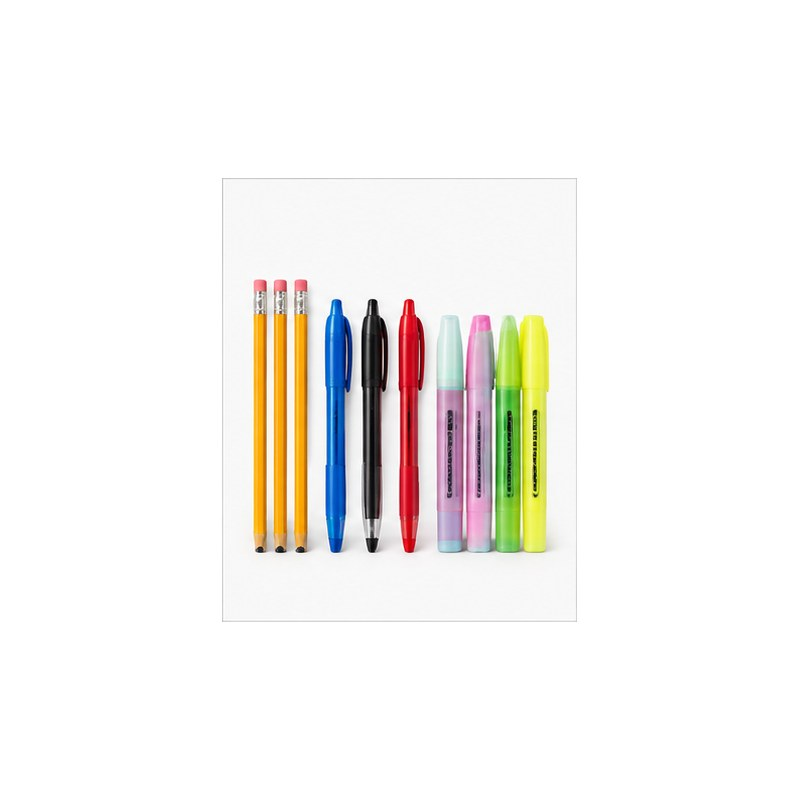
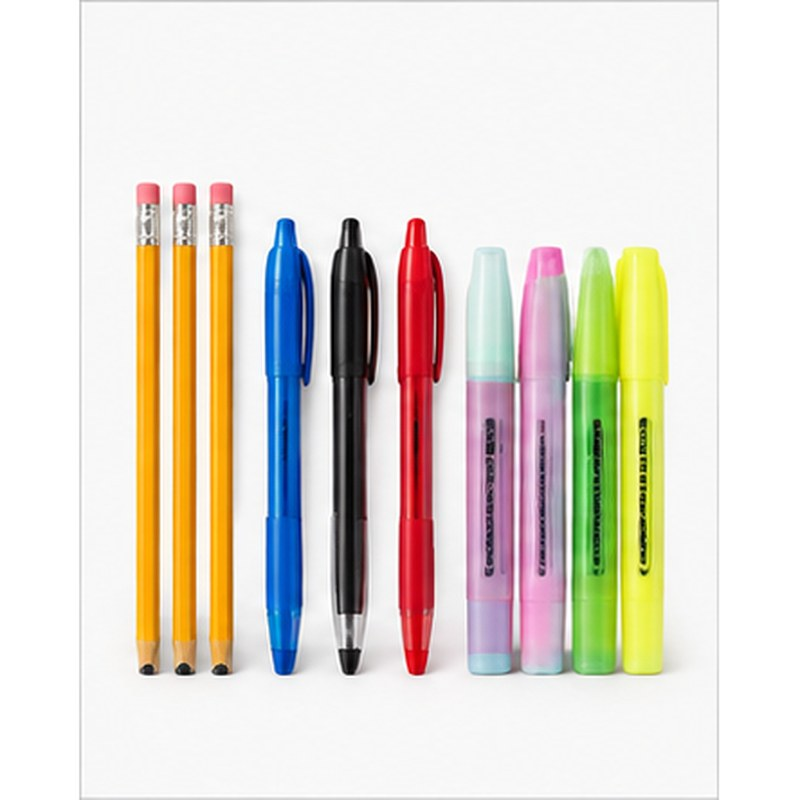
Add files via upload

diff --git a/styles.css b/styles.css
@@ -1,1 +1,1 @@
-:root{--navy:#0b2442;--ink:#132d4f;--pink:#f72b86;--blue:#54a7e8;--teal:#18b6a4;--yellow:#ffbd21;--purple:#7651df;--paper:#fff;--soft:#f5f8fc;--line:#dfe7f0;--muted:#607089;--shadow:0 18px 50px rgba(18,45,79,.11);--radius:22px}*{box-sizing:border-box}html{scroll-behavior:smooth}body{margin:0;font-family:Inter,ui-sans-serif,system-ui,-apple-system,Segoe UI,Roboto,Arial,sans-serif;color:var(--ink);background:#fff;line-height:1.6}a{color:inherit}.shell{width:min(1200px,calc(100% - 36px));margin:auto}.utility{background:var(--navy);color:#fff;font-size:.82rem}.utility-in{display:flex;justify-content:space-between;gap:20px;padding:9px 0}.header{position:sticky;top:0;z-index:50;background:#fff;box-shadow:0 1px 0 var(--line)}.header-main{display:grid;grid-template-columns:190px 1fr auto;align-items:center;gap:28px;padding:12px 0}.brand img{display:block;width:178px;height:78px;object-fit:contain;mix-blend-mode:multiply}.search{display:flex;border:1px solid #cfd9e5;border-radius:999px;overflow:hidden;background:#fff}.search input{border:0;outline:0;padding:13px 17px;flex:1;font:inherit}.search button{border:0;background:var(--pink);color:#fff;width:52px;font-size:1.2rem}.actions{display:flex;gap:18px;align-items:center}.actions a,.actions button{background:none;border:0;text-decoration:none;color:var(--ink);font-weight:700;cursor:pointer}.actions b{background:var(--pink);color:#fff;border-radius:999px;padding:1px 6px;font-size:.7rem}.nav-row{border-top:1px solid #edf1f5}.nav-row nav{display:flex;align-items:center;gap:24px;padding:11px 0;overflow:auto}.nav-row nav a{white-space:nowrap;text-decoration:none;font-size:.9rem;font-weight:700}.menu{display:none;border:1px solid var(--line);background:#fff;padding:9px 12px;border-radius:10px}.hero{background:linear-gradient(120deg,#eef4ff,#fff0f8);padding:34px 0 48px}.hero-grid{display:grid;grid-template-columns:1fr 1.05fr;gap:28px;align-items:center}.hero-copy{padding:28px 10px}.eyebrow{font-size:.76rem;letter-spacing:.16em;font-weight:850;color:var(--pink);margin:0 0 10px}.hero h1,.page-hero h1{font-size:clamp(3rem,6vw,5.6rem);line-height:.98;letter-spacing:-.055em;margin:0 0 22px;color:var(--navy)}.hero-copy>p:not(.eyebrow){font-size:1.15rem;color:#4d617b;max-width:600px}.hero-photo{border-radius:28px;overflow:hidden;box-shadow:var(--shadow);background:#eef}.hero-photo img{width:100%;height:480px;object-fit:cover;display:block}.hero-actions{display:flex;gap:12px;flex-wrap:wrap;margin:25px 0}.btn{display:inline-flex;align-items:center;justify-content:center;border:0;border-radius:12px;padding:12px 18px;text-decoration:none;font-weight:850;cursor:pointer;font:inherit}.btn.primary{background:var(--pink);color:#fff}.btn.outline{background:#fff;border:1px solid #b9c7d8;color:var(--navy)}.btn.dark{background:var(--navy);color:#fff}.btn.light-btn{background:#fff;color:var(--navy)}.btn.full{width:100%}.hero-points{display:flex;gap:15px;flex-wrap:wrap;color:#48617e;font-size:.85rem;font-weight:700}.categories{padding:70px 0}.section{padding:80px 0}.section-head{display:flex;justify-content:space-between;gap:25px;align-items:end;margin-bottom:28px}.section-head h2{font-size:clamp(2rem,4vw,3.4rem);letter-spacing:-.04em;line-height:1.05;margin:0}.section-head a{text-decoration:none;font-weight:800}.category-grid{display:grid;grid-template-columns:repeat(5,1fr);gap:14px}.cat{border:1px solid var(--line);border-radius:18px;padding:14px;text-decoration:none;background:#fff;transition:.2s}.cat:hover{transform:translateY(-4px);box-shadow:var(--shadow)}.cat img{width:100%;aspect-ratio:1;object-fit:contain;background:#fff;border-radius:14px;margin-bottom:9px;display:block;padding:6px}.cat b,.cat span{display:block}.cat span{color:var(--pink);font-size:.82rem;margin-top:2px}.soft{background:var(--soft)}.product-grid{display:grid;grid-template-columns:repeat(4,1fr);gap:16px}.product-card{background:#fff;border:1px solid var(--line);border-radius:18px;overflow:hidden;position:relative;min-width:0}.product-image{position:relative;background:#fff;aspect-ratio:1}.product-image img{width:100%;height:100%;object-fit:contain;display:block}.tag{position:absolute;left:10px;top:10px;background:#fff;border:1px solid var(--line);border-radius:999px;padding:5px 8px;font-size:.7rem;font-weight:850}.heart{position:absolute;right:10px;top:10px;border:1px solid var(--line);background:#fff;width:34px;height:34px;border-radius:50%;cursor:pointer}.product-body{padding:14px}.product-body small{color:var(--muted);font-weight:700}.product-body h3{font-size:1rem;line-height:1.25;margin:5px 0 9px}.price{display:flex;gap:8px;align-items:center;margin-bottom:11px}.price strong{font-size:1.12rem}.price del{color:#8997a9;font-size:.86rem}.card-actions{display:flex;gap:8px}.card-actions .btn{flex:1;padding:9px 10px;font-size:.86rem}.editorial{display:grid;grid-template-columns:1fr 1fr;gap:18px;padding:70px 0}.editorial-card{border-radius:26px;overflow:hidden;display:grid;grid-template-columns:1fr .7fr;min-height:320px;align-items:center;padding:30px}.editorial-card h2{font-size:2.3rem;line-height:1.05;margin:8px 0}.editorial-card p{color:#50647d}.editorial-card img{width:100%;height:240px;object-fit:contain}.editorial-card.blue{background:#dff0ff}.editorial-card.pink{background:#ffe3ef}.benefits{display:grid;grid-template-columns:repeat(4,1fr);border-top:1px solid var(--line);border-bottom:1px solid var(--line);padding:34px 0}.benefits div{padding:0 20px;border-right:1px solid var(--line)}.benefits div:last-child{border-right:0}.benefits b,.benefits span{display:block}.benefits span{color:var(--muted);font-size:.9rem}.dark-band{background:var(--navy);color:#fff}.dark-band .split{display:flex;justify-content:space-between;align-items:center;gap:30px}.dark-band h2{font-size:clamp(2.2rem,4vw,4rem);line-height:1.03;max-width:700px;margin:0 0 12px}.dark-band p:not(.eyebrow){color:#c4d1df;max-width:700px}.page-hero{background:linear-gradient(135deg,#eff6ff,#fff0f7);padding:72px 0}.page-hero h1{max-width:900px}.page-hero p:not(.eyebrow){color:#566a82;max-width:760px;font-size:1.08rem}.catalog-tools{display:grid;grid-template-columns:1fr 220px 220px;gap:12px;margin-bottom:28px}.catalog-tools input,.catalog-tools select,.form-card input,.form-card textarea,.form-card select{width:100%;border:1px solid #cbd6e2;border-radius:12px;padding:12px 14px;font:inherit;background:#fff}.catalog-layout{display:grid;grid-template-columns:220px 1fr;gap:28px}.filters{display:flex;flex-direction:column;gap:9px}.filters a{color:#53677f;text-decoration:none}.filters a:hover{color:var(--pink)}.empty,.notice-card{border:1px dashed #c7d3df;border-radius:18px;padding:40px;text-align:center;color:var(--muted)}.collection-grid,.support-grid,.checklist{display:grid;grid-template-columns:repeat(3,1fr);gap:16px}.collection-grid article,.support-grid article,.checklist article,.article-grid article{border:1px solid var(--line);border-radius:20px;padding:28px;background:#fff;min-height:260px}.collection-grid h2,.support-grid h2,.checklist h2,.article-grid h2{font-size:2rem;line-height:1.05}.checklist{grid-template-columns:repeat(4,1fr)}.checklist b{display:grid;place-items:center;width:42px;height:42px;background:#e9f5ff;border-radius:50%}.accordion{max-width:850px}.accordion details{border-bottom:1px solid var(--line);padding:20px 0}.accordion summary{font-weight:850;cursor:pointer}.form-card{max-width:700px;display:grid;gap:14px}.form-card label{font-weight:800}.form-card label input,.form-card label select,.form-card label textarea{display:block;margin-top:7px}.article-grid{grid-template-columns:repeat(3,1fr)}.article-body{max-width:780px;font-size:1.08rem}.product-detail{display:grid;grid-template-columns:1fr 1fr;gap:70px;align-items:center}.detail-photo{background:#fff;border:1px solid var(--line);border-radius:24px;padding:30px}.detail-photo img{width:100%;aspect-ratio:1;object-fit:contain}.product-detail h1{font-size:clamp(2.5rem,5vw,4.8rem);line-height:1;margin:0 0 15px}.price-line{display:flex;gap:12px;align-items:center;margin:15px 0;font-size:1.4rem}.price-line strong{color:var(--pink)}.detail-actions{display:flex;gap:10px;margin:25px 0}.detail-points{padding-left:20px;color:#52667e}.footer{background:#081a30;color:#dfe9f5;margin-top:80px;padding:65px 0 20px}.footer-top{display:flex;justify-content:space-between;gap:40px;align-items:end;padding-bottom:45px;border-bottom:1px solid #29405a}.footer-logo{width:170px;height:70px;object-fit:contain;filter:none;background:#fff;border-radius:8px}.footer p{color:#9eb0c3;max-width:480px}.newsletter{min-width:360px}.newsletter label{display:block;font-weight:850;margin-bottom:9px}.newsletter>div{display:flex}.newsletter input{flex:1;padding:12px;border:0;border-radius:10px 0 0 10px}.newsletter button{border:0;background:var(--pink);color:#fff;padding:0 18px;border-radius:0 10px 10px 0;font-weight:850}.newsletter small{display:block;color:#8296ab;margin-top:7px}.footer-grid{display:grid;grid-template-columns:repeat(4,1fr);gap:35px;padding:40px 0}.footer-grid div{display:flex;flex-direction:column;gap:8px}.footer-grid a{text-decoration:none;color:#c7d3df}.footer-grid b{color:#fff;margin-bottom:4px}.footer-bottom{border-top:1px solid #29405a;padding-top:18px;display:flex;justify-content:space-between;gap:20px;color:#8296ab;font-size:.8rem}.cart-drawer{position:fixed;z-index:100;right:0;top:0;height:100vh;width:min(420px,100%);background:#fff;box-shadow:-20px 0 60px rgba(0,0,0,.18);transform:translateX(105%);transition:.25s;padding:24px;display:flex;flex-direction:column}.cart-drawer.open{transform:none}.cart-head{display:flex;justify-content:space-between;align-items:center}.cart-head button{border:0;background:none;font-size:2rem;cursor:pointer}.cart-items{overflow:auto;flex:1}.cart-row{display:grid;grid-template-columns:65px 1fr auto;gap:10px;padding:13px 0;border-bottom:1px solid var(--line);align-items:center}.cart-row img{width:65px;height:65px;object-fit:contain;border:1px solid var(--line);border-radius:10px}.qty{display:flex;gap:7px;align-items:center}.qty button{width:27px;height:27px;border:1px solid var(--line);background:#fff;border-radius:7px}.cart-total{display:flex;justify-content:space-between;padding:18px 0;font-size:1.1rem}.toast{position:fixed;right:20px;bottom:20px;background:var(--navy);color:#fff;padding:12px 17px;border-radius:999px;z-index:200;transform:translateY(100px);opacity:0;transition:.2s}.toast.show{transform:none;opacity:1}.small{color:var(--muted);font-size:.84rem}@media(max-width:1050px){.header-main{grid-template-columns:160px 1fr auto}.category-grid{grid-template-columns:repeat(5,1fr)}.product-grid{grid-template-columns:repeat(3,1fr)}.checklist{grid-template-columns:repeat(2,1fr)}}@media(max-width:820px){.header-main{grid-template-columns:1fr auto}.search{grid-column:1/-1;grid-row:2}.actions{justify-content:flex-end}.brand img{height:64px}.menu{display:block;margin:9px 0}.nav-row nav{display:none;flex-direction:column;align-items:flex-start}.nav-row nav.open{display:flex}.hero-grid,.product-detail{grid-template-columns:1fr}.hero-photo img{height:360px}.category-grid{grid-template-columns:repeat(3,1fr)}.catalog-layout{grid-template-columns:1fr}.filters{display:grid;grid-template-columns:repeat(3,1fr)}.collection-grid,.support-grid,.article-grid{grid-template-columns:1fr 1fr}.footer-top,.dark-band .split{flex-direction:column;align-items:flex-start}.newsletter{min-width:0;width:100%}}@media(max-width:560px){.shell{width:min(100% - 24px,1200px)}.utility-in{flex-direction:column;gap:2px}.utility-in span:nth-child(2){display:none}.actions span{display:none}.hero{padding-top:18px}.hero-copy{padding:15px 0}.hero h1,.page-hero h1{font-size:3.2rem}.hero-photo img{height:290px}.category-grid,.product-grid,.benefits,.collection-grid,.support-grid,.checklist,.article-grid,.footer-grid{grid-template-columns:1fr 1fr}.category-grid .cat:nth-child(n+7){display:none}.catalog-tools{grid-template-columns:1fr}.filters{grid-template-columns:1fr 1fr}.editorial{grid-template-columns:1fr}.editorial-card{grid-template-columns:1fr}.editorial-card img{height:180px}.footer-bottom{flex-direction:column}.newsletter{width:100%}.product-detail{gap:30px}.detail-actions{flex-direction:column}.category-grid .cat{padding:9px}.category-grid .cat b{font-size:.86rem}}
+:root{--navy:#0b2442;--ink:#132d4f;--pink:#f72b86;--blue:#54a7e8;--teal:#18b6a4;--yellow:#ffbd21;--purple:#7651df;--paper:#fff;--soft:#f5f8fc;--line:#dfe7f0;--muted:#607089;--shadow:0 18px 50px rgba(18,45,79,.11);--radius:22px}*{box-sizing:border-box}html{scroll-behavior:smooth}body{margin:0;font-family:Inter,ui-sans-serif,system-ui,-apple-system,Segoe UI,Roboto,Arial,sans-serif;color:var(--ink);background:#fff;line-height:1.6}a{color:inherit}.shell{width:min(1200px,calc(100% - 36px));margin:auto}.utility{background:var(--navy);color:#fff;font-size:.82rem}.utility-in{display:flex;justify-content:space-between;gap:20px;padding:9px 0}.header{position:sticky;top:0;z-index:50;background:#fff;box-shadow:0 1px 0 var(--line)}.header-main{display:grid;grid-template-columns:190px 1fr auto;align-items:center;gap:28px;padding:12px 0}.brand img{display:block;width:178px;height:78px;object-fit:contain;mix-blend-mode:multiply}.search{display:flex;border:1px solid #cfd9e5;border-radius:999px;overflow:hidden;background:#fff}.search input{border:0;outline:0;padding:13px 17px;flex:1;font:inherit}.search button{border:0;background:var(--pink);color:#fff;width:52px;font-size:1.2rem}.actions{display:flex;gap:18px;align-items:center}.actions a,.actions button{background:none;border:0;text-decoration:none;color:var(--ink);font-weight:700;cursor:pointer}.actions b{background:var(--pink);color:#fff;border-radius:999px;padding:1px 6px;font-size:.7rem}.nav-row{border-top:1px solid #edf1f5}.nav-row nav{display:flex;align-items:center;gap:24px;padding:11px 0;overflow:auto}.nav-row nav a{white-space:nowrap;text-decoration:none;font-size:.9rem;font-weight:700}.menu{display:none;border:1px solid var(--line);background:#fff;padding:9px 12px;border-radius:10px}.hero{background:linear-gradient(120deg,#eef4ff,#fff0f8);padding:34px 0 48px}.hero-grid{display:grid;grid-template-columns:1fr 1.05fr;gap:28px;align-items:center}.hero-copy{padding:28px 10px}.eyebrow{font-size:.76rem;letter-spacing:.16em;font-weight:850;color:var(--pink);margin:0 0 10px}.hero h1,.page-hero h1{font-size:clamp(3rem,6vw,5.6rem);line-height:.98;letter-spacing:-.055em;margin:0 0 22px;color:var(--navy)}.hero-copy>p:not(.eyebrow){font-size:1.15rem;color:#4d617b;max-width:600px}.hero-photo{border-radius:28px;overflow:hidden;box-shadow:var(--shadow);background:#eef}.hero-photo img{width:100%;height:480px;object-fit:cover;display:block}.hero-actions{display:flex;gap:12px;flex-wrap:wrap;margin:25px 0}.btn{display:inline-flex;align-items:center;justify-content:center;border:0;border-radius:12px;padding:12px 18px;text-decoration:none;font-weight:850;cursor:pointer;font:inherit}.btn.primary{background:var(--pink);color:#fff}.btn.outline{background:#fff;border:1px solid #b9c7d8;color:var(--navy)}.btn.dark{background:var(--navy);color:#fff}.btn.light-btn{background:#fff;color:var(--navy)}.btn.full{width:100%}.hero-points{display:flex;gap:15px;flex-wrap:wrap;color:#48617e;font-size:.85rem;font-weight:700}.categories{padding:70px 0}.section{padding:80px 0}.section-head{display:flex;justify-content:space-between;gap:25px;align-items:end;margin-bottom:28px}.section-head h2{font-size:clamp(2rem,4vw,3.4rem);letter-spacing:-.04em;line-height:1.05;margin:0}.section-head a{text-decoration:none;font-weight:800}.category-grid{display:grid;grid-template-columns:repeat(5,1fr);gap:14px}.cat{border:1px solid var(--line);border-radius:18px;padding:14px;text-decoration:none;background:#fff;transition:.2s}.cat:hover{transform:translateY(-4px);box-shadow:var(--shadow)}.cat img{width:100%;aspect-ratio:1;object-fit:contain;background:#fff;border-radius:14px;margin-bottom:9px;display:block;padding:0}.cat b,.cat span{display:block}.cat span{color:var(--pink);font-size:.82rem;margin-top:2px}.soft{background:var(--soft)}.product-grid{display:grid;grid-template-columns:repeat(4,1fr);gap:16px}.product-card{background:#fff;border:1px solid var(--line);border-radius:18px;overflow:hidden;position:relative;min-width:0}.product-image{position:relative;background:#fff;aspect-ratio:1}.product-image img{width:100%;height:100%;object-fit:contain;display:block}.tag{position:absolute;left:10px;top:10px;background:#fff;border:1px solid var(--line);border-radius:999px;padding:5px 8px;font-size:.7rem;font-weight:850}.heart{position:absolute;right:10px;top:10px;border:1px solid var(--line);background:#fff;width:34px;height:34px;border-radius:50%;cursor:pointer}.product-body{padding:14px}.product-body small{color:var(--muted);font-weight:700}.product-body h3{font-size:1rem;line-height:1.25;margin:5px 0 9px}.price{display:flex;gap:8px;align-items:center;margin-bottom:11px}.price strong{font-size:1.12rem}.price del{color:#8997a9;font-size:.86rem}.card-actions{display:flex;gap:8px}.card-actions .btn{flex:1;padding:9px 10px;font-size:.86rem}.editorial{display:grid;grid-template-columns:1fr 1fr;gap:18px;padding:70px 0}.editorial-card{border-radius:26px;overflow:hidden;display:grid;grid-template-columns:1fr .7fr;min-height:320px;align-items:center;padding:30px}.editorial-card h2{font-size:2.3rem;line-height:1.05;margin:8px 0}.editorial-card p{color:#50647d}.editorial-card img{width:100%;height:240px;object-fit:contain}.editorial-card.blue{background:#dff0ff}.editorial-card.pink{background:#ffe3ef}.benefits{display:grid;grid-template-columns:repeat(4,1fr);border-top:1px solid var(--line);border-bottom:1px solid var(--line);padding:34px 0}.benefits div{padding:0 20px;border-right:1px solid var(--line)}.benefits div:last-child{border-right:0}.benefits b,.benefits span{display:block}.benefits span{color:var(--muted);font-size:.9rem}.dark-band{background:var(--navy);color:#fff}.dark-band .split{display:flex;justify-content:space-between;align-items:center;gap:30px}.dark-band h2{font-size:clamp(2.2rem,4vw,4rem);line-height:1.03;max-width:700px;margin:0 0 12px}.dark-band p:not(.eyebrow){color:#c4d1df;max-width:700px}.page-hero{background:linear-gradient(135deg,#eff6ff,#fff0f7);padding:72px 0}.page-hero h1{max-width:900px}.page-hero p:not(.eyebrow){color:#566a82;max-width:760px;font-size:1.08rem}.catalog-tools{display:grid;grid-template-columns:1fr 220px 220px;gap:12px;margin-bottom:28px}.catalog-tools input,.catalog-tools select,.form-card input,.form-card textarea,.form-card select{width:100%;border:1px solid #cbd6e2;border-radius:12px;padding:12px 14px;font:inherit;background:#fff}.catalog-layout{display:grid;grid-template-columns:220px 1fr;gap:28px}.filters{display:flex;flex-direction:column;gap:9px}.filters a{color:#53677f;text-decoration:none}.filters a:hover{color:var(--pink)}.empty,.notice-card{border:1px dashed #c7d3df;border-radius:18px;padding:40px;text-align:center;color:var(--muted)}.collection-grid,.support-grid,.checklist{display:grid;grid-template-columns:repeat(3,1fr);gap:16px}.collection-grid article,.support-grid article,.checklist article,.article-grid article{border:1px solid var(--line);border-radius:20px;padding:28px;background:#fff;min-height:260px}.collection-grid h2,.support-grid h2,.checklist h2,.article-grid h2{font-size:2rem;line-height:1.05}.checklist{grid-template-columns:repeat(4,1fr)}.checklist b{display:grid;place-items:center;width:42px;height:42px;background:#e9f5ff;border-radius:50%}.accordion{max-width:850px}.accordion details{border-bottom:1px solid var(--line);padding:20px 0}.accordion summary{font-weight:850;cursor:pointer}.form-card{max-width:700px;display:grid;gap:14px}.form-card label{font-weight:800}.form-card label input,.form-card label select,.form-card label textarea{display:block;margin-top:7px}.article-grid{grid-template-columns:repeat(3,1fr)}.article-body{max-width:780px;font-size:1.08rem}.product-detail{display:grid;grid-template-columns:1fr 1fr;gap:70px;align-items:center}.detail-photo{background:#fff;border:1px solid var(--line);border-radius:24px;padding:30px}.detail-photo img{width:100%;aspect-ratio:1;object-fit:contain}.product-detail h1{font-size:clamp(2.5rem,5vw,4.8rem);line-height:1;margin:0 0 15px}.price-line{display:flex;gap:12px;align-items:center;margin:15px 0;font-size:1.4rem}.price-line strong{color:var(--pink)}.detail-actions{display:flex;gap:10px;margin:25px 0}.detail-points{padding-left:20px;color:#52667e}.footer{background:#081a30;color:#dfe9f5;margin-top:80px;padding:65px 0 20px}.footer-top{display:flex;justify-content:space-between;gap:40px;align-items:end;padding-bottom:45px;border-bottom:1px solid #29405a}.footer-logo{width:170px;height:70px;object-fit:contain;filter:none;background:#fff;border-radius:8px}.footer p{color:#9eb0c3;max-width:480px}.newsletter{min-width:360px}.newsletter label{display:block;font-weight:850;margin-bottom:9px}.newsletter>div{display:flex}.newsletter input{flex:1;padding:12px;border:0;border-radius:10px 0 0 10px}.newsletter button{border:0;background:var(--pink);color:#fff;padding:0 18px;border-radius:0 10px 10px 0;font-weight:850}.newsletter small{display:block;color:#8296ab;margin-top:7px}.footer-grid{display:grid;grid-template-columns:repeat(4,1fr);gap:35px;padding:40px 0}.footer-grid div{display:flex;flex-direction:column;gap:8px}.footer-grid a{text-decoration:none;color:#c7d3df}.footer-grid b{color:#fff;margin-bottom:4px}.footer-bottom{border-top:1px solid #29405a;padding-top:18px;display:flex;justify-content:space-between;gap:20px;color:#8296ab;font-size:.8rem}.cart-drawer{position:fixed;z-index:100;right:0;top:0;height:100vh;width:min(420px,100%);background:#fff;box-shadow:-20px 0 60px rgba(0,0,0,.18);transform:translateX(105%);transition:.25s;padding:24px;display:flex;flex-direction:column}.cart-drawer.open{transform:none}.cart-head{display:flex;justify-content:space-between;align-items:center}.cart-head button{border:0;background:none;font-size:2rem;cursor:pointer}.cart-items{overflow:auto;flex:1}.cart-row{display:grid;grid-template-columns:65px 1fr auto;gap:10px;padding:13px 0;border-bottom:1px solid var(--line);align-items:center}.cart-row img{width:65px;height:65px;object-fit:contain;border:1px solid var(--line);border-radius:10px}.qty{display:flex;gap:7px;align-items:center}.qty button{width:27px;height:27px;border:1px solid var(--line);background:#fff;border-radius:7px}.cart-total{display:flex;justify-content:space-between;padding:18px 0;font-size:1.1rem}.toast{position:fixed;right:20px;bottom:20px;background:var(--navy);color:#fff;padding:12px 17px;border-radius:999px;z-index:200;transform:translateY(100px);opacity:0;transition:.2s}.toast.show{transform:none;opacity:1}.small{color:var(--muted);font-size:.84rem}@media(max-width:1050px){.header-main{grid-template-columns:160px 1fr auto}.category-grid{grid-template-columns:repeat(5,1fr)}.product-grid{grid-template-columns:repeat(3,1fr)}.checklist{grid-template-columns:repeat(2,1fr)}}@media(max-width:820px){.header-main{grid-template-columns:1fr auto}.search{grid-column:1/-1;grid-row:2}.actions{justify-content:flex-end}.brand img{height:64px}.menu{display:block;margin:9px 0}.nav-row nav{display:none;flex-direction:column;align-items:flex-start}.nav-row nav.open{display:flex}.hero-grid,.product-detail{grid-template-columns:1fr}.hero-photo img{height:360px}.category-grid{grid-template-columns:repeat(3,1fr)}.catalog-layout{grid-template-columns:1fr}.filters{display:grid;grid-template-columns:repeat(3,1fr)}.collection-grid,.support-grid,.article-grid{grid-template-columns:1fr 1fr}.footer-top,.dark-band .split{flex-direction:column;align-items:flex-start}.newsletter{min-width:0;width:100%}}@media(max-width:560px){.shell{width:min(100% - 24px,1200px)}.utility-in{flex-direction:column;gap:2px}.utility-in span:nth-child(2){display:none}.actions span{display:none}.hero{padding-top:18px}.hero-copy{padding:15px 0}.hero h1,.page-hero h1{font-size:3.2rem}.hero-photo img{height:290px}.category-grid,.product-grid,.benefits,.collection-grid,.support-grid,.checklist,.article-grid,.footer-grid{grid-template-columns:1fr 1fr}.category-grid .cat:nth-child(n+7){display:none}.catalog-tools{grid-template-columns:1fr}.filters{grid-template-columns:1fr 1fr}.editorial{grid-template-columns:1fr}.editorial-card{grid-template-columns:1fr}.editorial-card img{height:180px}.footer-bottom{flex-direction:column}.newsletter{width:100%}.product-detail{gap:30px}.detail-actions{flex-direction:column}.category-grid .cat{padding:9px}.category-grid .cat b{font-size:.86rem}}

diff --git a/CHANGELOG-V3.md b/CHANGELOG-V3.md
@@ -1,0 +1,8 @@
+# PAPERLOOP Web V3
+
+## Visual correction
+- Rebuilt all 10 category images as individually framed square product photographs.
+- Removed the previous circular/zoomed artwork from category assets.
+- Kept products centered with generous white space, matching the clean reference treatment.
+- Category CSS uses `object-fit: contain` with no additional inner crop/padding.
+- All category assignments remain deterministic and semantically matched.
